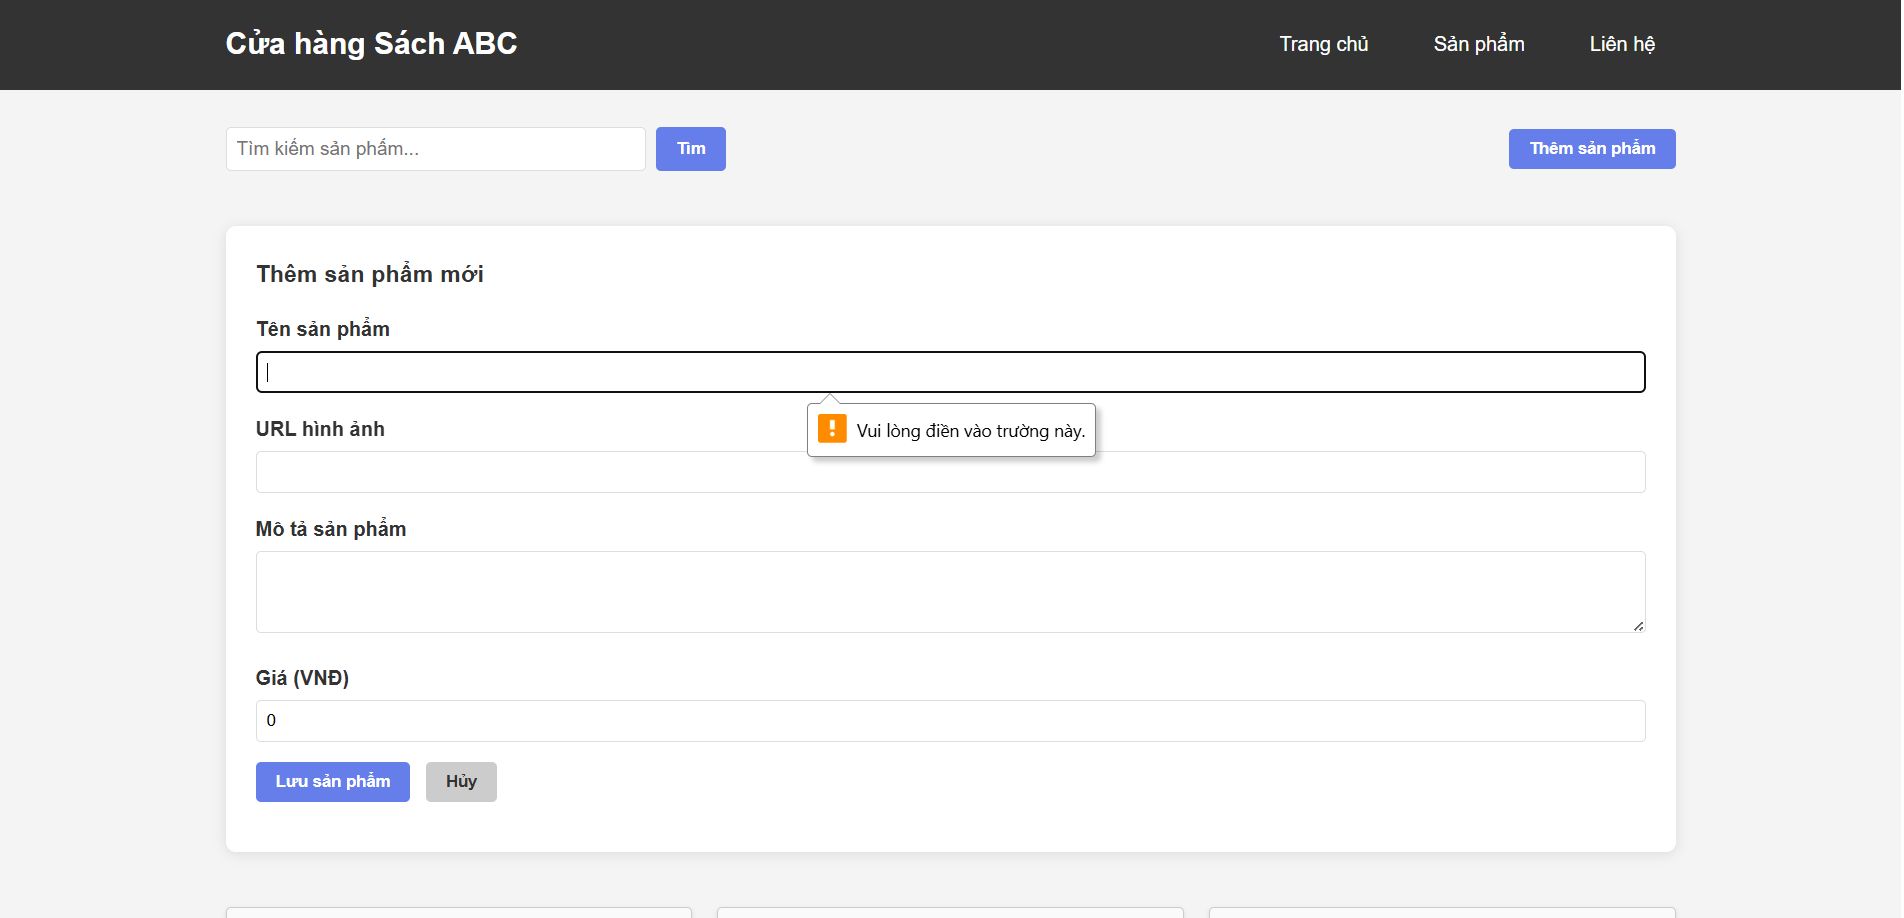
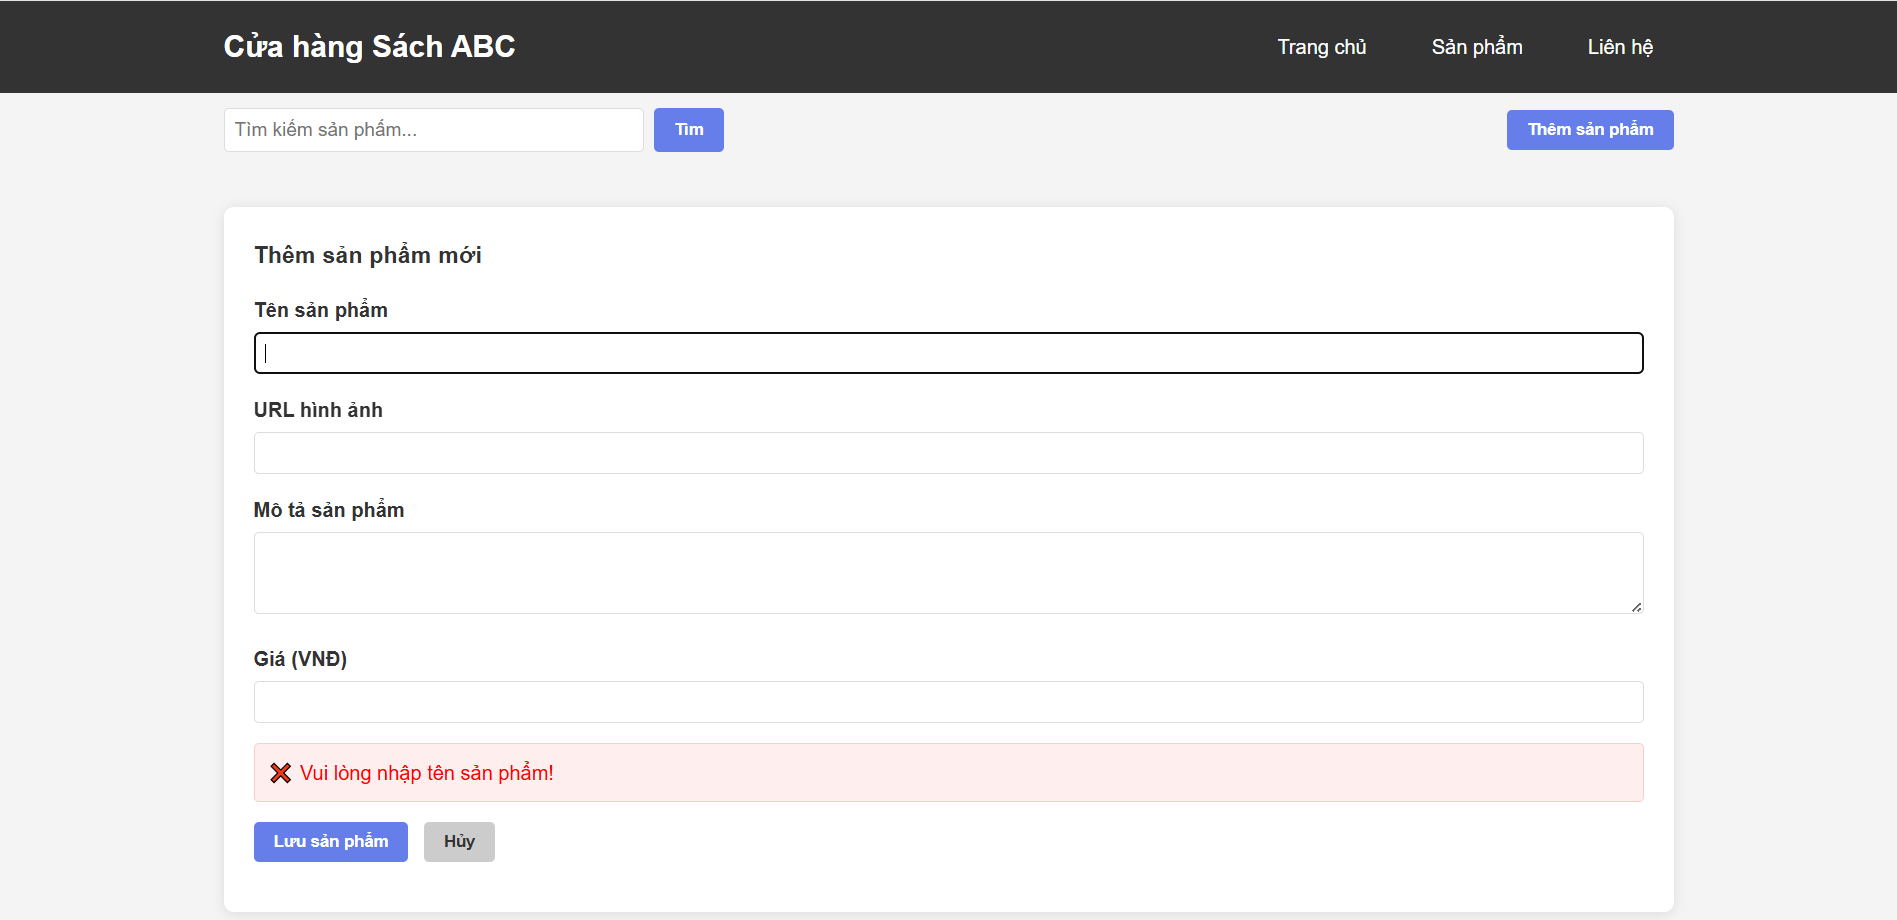
update

diff --git a/Ex4/script.js b/Ex4/script.js
@@ -34,9 +34,6 @@ function searchProducts() {
       }
     }
   });
-
-  // Thông báo nếu không tìm thấy sản phẩm
-  console.log(`Tìm thấy ${foundCount} sản phẩm`);
 }
 
 // Gắn sự kiện click cho nút tìm kiếm
@@ -72,7 +69,7 @@ addProductBtn.addEventListener("click", toggleAddProductForm);
 cancelAddBtn.addEventListener("click", function () {
   addProductForm.classList.add("hidden");
   addProductForm.reset(); // Reset form khi hủy
-  
+
   // Xóa thông báo lỗi
   const errorMsg = document.getElementById("errorMsg");
   if (errorMsg) {
@@ -104,13 +101,23 @@ addProductForm.addEventListener("submit", function (event) {
   // Kiểm tra tên sản phẩm
   if (productName === "") {
     errorMsg.textContent = "❌ Vui lòng nhập tên sản phẩm!";
+    errorMsg.style.display = "block";
     document.getElementById("productName").focus();
     return;
   }
 
-  if (productName.length < 3) {
-    errorMsg.textContent = "❌ Tên sản phẩm phải có ít nhất 3 ký tự!";
-    document.getElementById("productName").focus();
+  // Kiểm tra mô tả
+  if (productDesc === "") {
+    errorMsg.textContent = "❌ Vui lòng nhập mô tả sản phẩm!";
+    errorMsg.style.display = "block";
+    document.getElementById("productDesc").focus();
+    return;
+  }
+
+  if (productDesc.length < 10) {
+    errorMsg.textContent = "❌ Mô tả sản phẩm phải có ít nhất 10 ký tự!";
+    errorMsg.style.display = "block";
+    document.getElementById("productDesc").focus();
     return;
   }
 
@@ -118,38 +125,20 @@ addProductForm.addEventListener("submit", function (event) {
   const price = Number(productPrice);
   if (productPrice === "" || isNaN(price)) {
     errorMsg.textContent = "❌ Vui lòng nhập giá hợp lệ!";
+    errorMsg.style.display = "block";
     document.getElementById("productPrice").focus();
     return;
   }
 
   if (price <= 0) {
     errorMsg.textContent = "❌ Giá sản phẩm phải lớn hơn 0!";
+    errorMsg.style.display = "block";
     document.getElementById("productPrice").focus();
     return;
   }
 
-  // Kiểm tra mô tả
-  if (productDesc === "") {
-    errorMsg.textContent = "❌ Vui lòng nhập mô tả sản phẩm!";
-    document.getElementById("productDesc").focus();
-    return;
-  }
-
-  if (productDesc.length < 10) {
-    errorMsg.textContent = "❌ Mô tả sản phẩm phải có ít nhất 10 ký tự!";
-    document.getElementById("productDesc").focus();
-    return;
-  }
-
-  // Kiểm tra URL hình ảnh (optional)
-  if (productImage !== "" && !isValidURL(productImage)) {
-    errorMsg.textContent = "❌ URL hình ảnh không hợp lệ!";
-    document.getElementById("productImage").focus();
-    return;
-  }
-
   // === Nếu validation thành công, xóa thông báo lỗi ===
-  errorMsg.textContent = "";
+  errorMsg.style.display = "none";
 
   // Tạo ID duy nhất cho sản phẩm mới
   const newId = "prod-" + Date.now();
@@ -160,7 +149,8 @@ addProductForm.addEventListener("submit", function (event) {
   newProduct.setAttribute("aria-labelledby", newId);
 
   // Sử dụng ảnh mặc định nếu không có URL
-  const imageUrl = productImage || 
+  const imageUrl =
+    productImage ||
     "https://png.pngtree.com/png-vector/20241102/ourmid/pngtree-a-open-book-with-blank-pages-on-isolated-png-image_14236021.png";
 
   // Thêm nội dung cho sản phẩm mới
@@ -173,7 +163,7 @@ addProductForm.addEventListener("submit", function (event) {
 
   // Thêm sản phẩm vào đầu danh sách
   const productList = document.getElementById("product-list");
-  
+
   // Tìm vị trí sau form để chèn sản phẩm
   const firstProduct = productList.querySelector(".product-item");
   if (firstProduct) {
@@ -214,11 +204,11 @@ function isValidURL(string) {
 // Hàm escape HTML để tránh XSS
 function escapeHtml(text) {
   const map = {
-    '&': '&amp;',
-    '<': '&lt;',
-    '>': '&gt;',
-    '"': '&quot;',
-    "'": '&#039;'
+    "&": "&amp;",
+    "<": "&lt;",
+    ">": "&gt;",
+    '"': "&quot;",
+    "'": "&#039;",
   };
-  return text.replace(/[&<>"']/g, m => map[m]);
+  return text.replace(/[&<>"']/g, (m) => map[m]);
 }

diff --git a/Ex4/index.html b/Ex4/index.html
@@ -52,33 +52,41 @@
           <h3>Thêm sản phẩm mới</h3>
           <div>
             <label for="productName">Tên sản phẩm</label>
-            <input type="text" id="productName" name="productName" required />
+            <input type="text" id="productName" name="productName" />
           </div>
 
-            <div>
-                <label for="productImage">URL hình ảnh</label>
-                <input type="url" id="productImage" name="productImage" />
-            </div>
-            <div>
-                <label for="productDesc">Mô tả sản phẩm</label>
-                <textarea
-                    id="productDesc"
-                    name="productDesc"
-                    rows="3"
-                    required
-                ></textarea>
-            </div>
-            <div>
-                <label for="productPrice">Giá (VNĐ)</label>
-                <input
-                    type="number"
-                    id="productPrice"
-                    name="productPrice"
-                    min="1"
-                    required
-                />
-            </div>
-            <!-- Thông báo lỗi sẽ được thêm động bởi JavaScript -->
+          <div>
+            <label for="productImage">URL hình ảnh</label>
+            <input type="url" id="productImage" name="productImage" />
+          </div>
+          <div>
+            <label for="productDesc">Mô tả sản phẩm</label>
+            <textarea
+              id="productDesc"
+              name="productDesc"
+              rows="3"
+            ></textarea>
+          </div>
+          <div>
+            <label for="productPrice">Giá (VNĐ)</label>
+            <input
+              type="number"
+              id="productPrice"
+              name="productPrice"
+            />
+          </div>
+          <p
+            id="errorMsg"
+            style="
+              display: none;
+              color: red;
+              background: #fee;
+              padding: 10px;
+              border: 1px solid #fcc;
+              border-radius: 4px;
+              margin-bottom: 1rem;
+            "
+          ></p>
           <div>
             <button type="submit">Lưu sản phẩm</button>
             <button type="button" id="cancelAddBtn">Hủy</button>
@@ -87,7 +95,9 @@
 
         <!-- Cụ thể từng article mỗi article gồm tiêu đề, hình ảnh, mô tả và giá -->
         <article class="product-item" aria-labelledby="prod1-title">
-          <h3 id="prod1-title" class="product-name">Sách: Hành trình tìm chính mình</h3>
+          <h3 id="prod1-title" class="product-name">
+            Sách: Hành trình tìm chính mình
+          </h3>
           <img
             src="https://png.pngtree.com/png-vector/20241102/ourmid/pngtree-a-open-book-with-blank-pages-on-isolated-png-image_14236021.png"
             alt="Bìa sách Hành trình tìm chính mình"
@@ -99,8 +109,10 @@
           <p>Giá: 120.000₫</p>
         </article>
 
-        <article class="product-item"  aria-labelledby="prod2-title">
-          <h3 id="prod2-title" class="product-name">Sách: Lịch sử thế giới ngắn gọn</h3>
+        <article class="product-item" aria-labelledby="prod2-title">
+          <h3 id="prod2-title" class="product-name">
+            Sách: Lịch sử thế giới ngắn gọn
+          </h3>
           <img
             src="https://png.pngtree.com/png-vector/20241102/ourmid/pngtree-a-open-book-with-blank-pages-on-isolated-png-image_14236021.png"
             alt="Bìa sách Lịch sử thế giới ngắn gọn"
@@ -113,7 +125,9 @@
         </article>
 
         <article class="product-item" aria-labelledby="prod3-title">
-          <h3 id="prod3-title" class="product-name">Sách: Hướng dẫn lập trình cơ bản</h3>
+          <h3 id="prod3-title" class="product-name">
+            Sách: Hướng dẫn lập trình cơ bản
+          </h3>
           <img
             src="https://png.pngtree.com/png-vector/20241102/ourmid/pngtree-a-open-book-with-blank-pages-on-isolated-png-image_14236021.png"
             alt="Bìa sách Hướng dẫn lập trình cơ bản"
